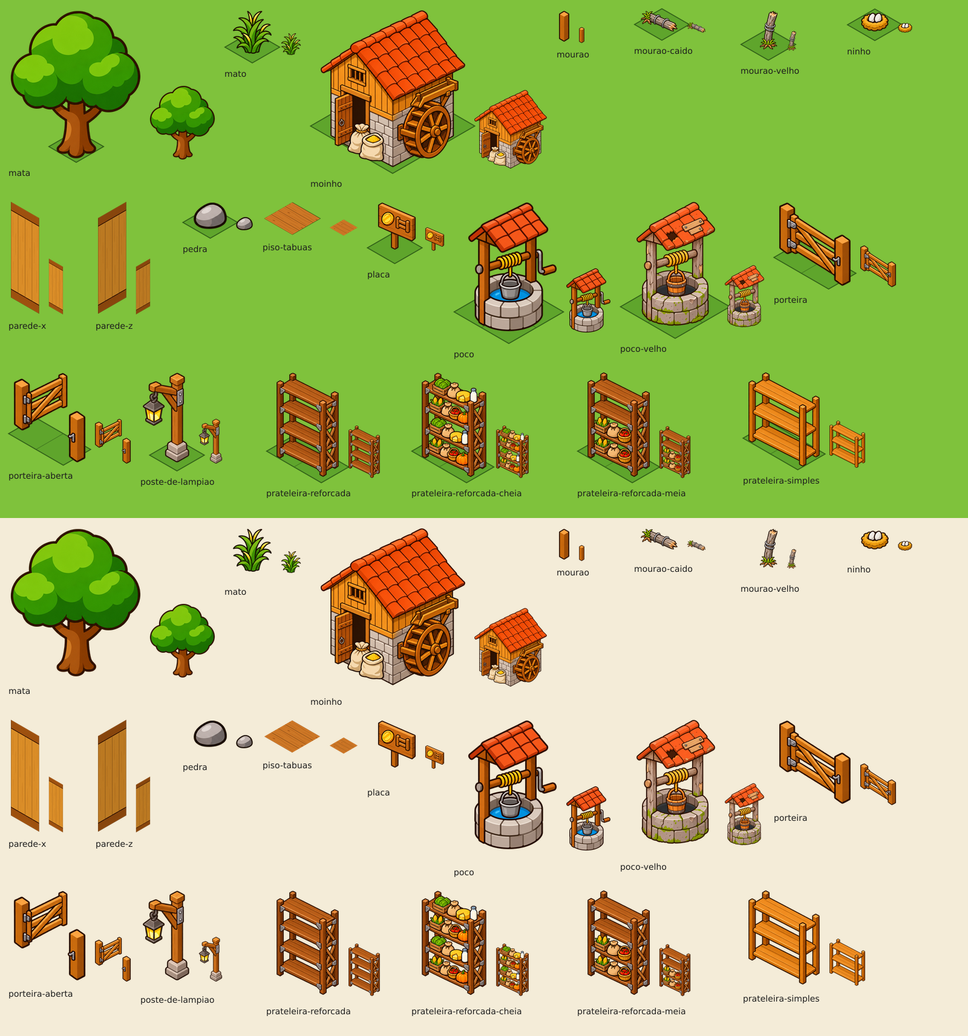
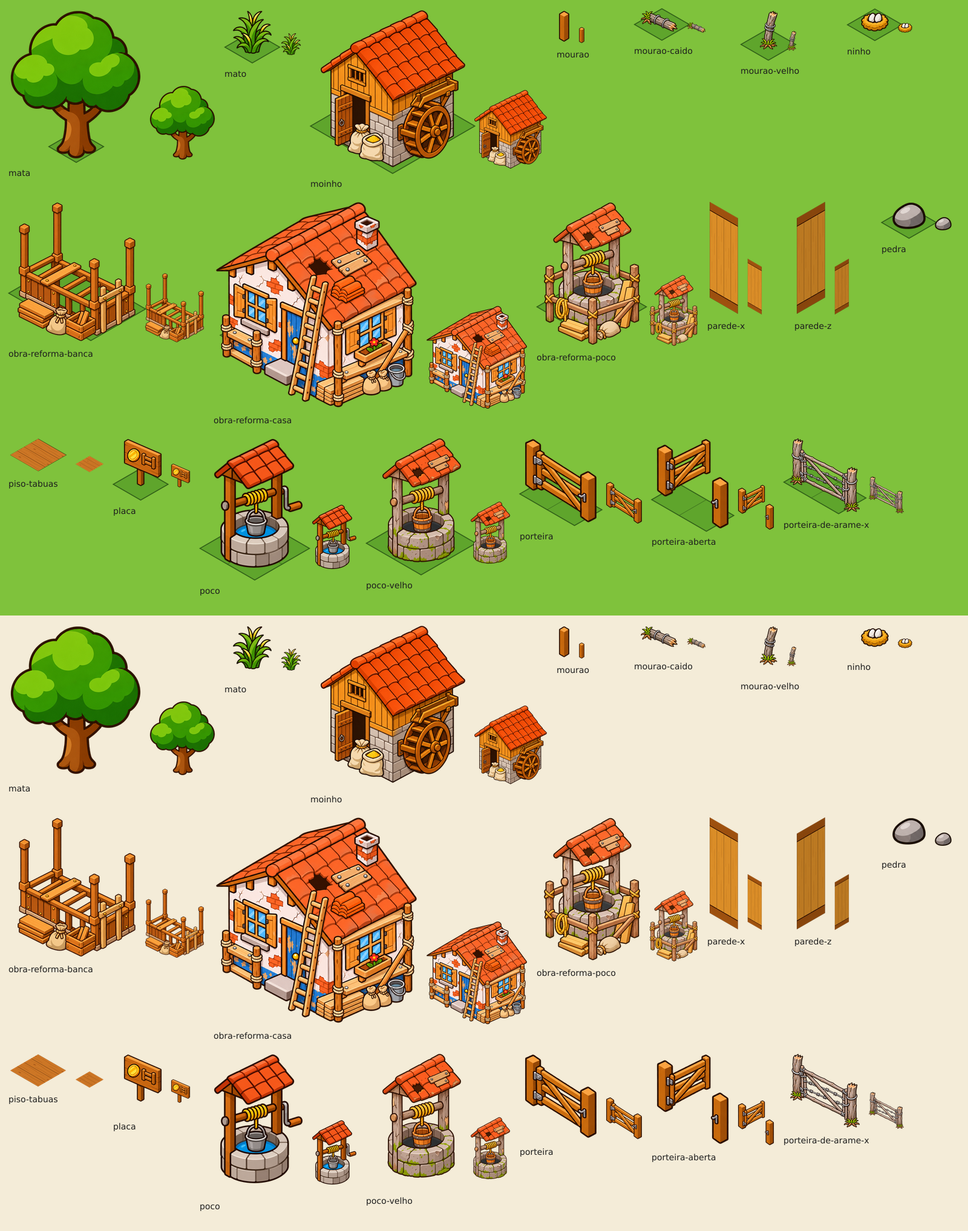
Arte: peças que faltavam (trouxa no chão, porteiras de arame, obras de reforma, ícones das reformas e da roda de ações)
Claude-Session: https://claude.ai/code/session_014ZMdFxkTu5bY13h76nzJkg

diff --git a/arte/jogo/ficha-pecas.md b/arte/jogo/ficha-pecas.md
@@ -21,20 +21,21 @@ Construções, objetos, plantas, ícones e retratos do jogo, pedidos ao Codex de
 - Curral (6 x 5): montado por código com as cercas, a porteira, a sombra, o cocho e o bebedouro do catálogo (`peca.mjs cercado`). `objeto/curral` é o conjunto; `objeto/curral-fundo` e `objeto/curral-frente` têm o mesmo quadro e o mesmo apoio, para desenhar fundo, bichos, frente. O mesmo comando faz outros cercados.
 - Celeiro por dentro: `objeto/piso-tabuas` (1 casa, apoio no centro, encosta no vizinho sem vão), `objeto/parede-x` e `objeto/parede-z` (1 unidade de parede, 3 de altura, apoio no meio do pé; a parede do fundo fica em z = 0 e x = 0). Os móveis (suporte, prateleiras, baú, caixote, saco de sementes, fardo de feno) têm o apoio no centro da casa. Montagem de teste com o piso de 8 x 5 dos dados: `arte/jogo/folhas/cena-celeiro-por-dentro.png`.
 - Começo da fazenda (pedidos 59 a 63): `objeto/casa-velha` tem o mesmo quadro (681 x 642) e o mesmo apoio (340, 470) de `objeto/casa`, para trocar uma pela outra quando a casa é reformada; `objeto/poco-velho` tem o apoio no mesmo ponto do chão de `objeto/poco` e a mureta do mesmo tamanho, mas o quadro é outro (sem a manivela); `objeto/caixote-de-venda` e `-cheio` têm o mesmo quadro e apoio (1 casa). Arame farpado na regra da cerca: `objeto/arame-x` e `objeto/arame-z` (e os caídos `arame-caido-x` e `-z`) têm 1 unidade de mourão a mourão e o apoio no meio do trecho, no chão; trechos vizinhos sobrepõem o mourão. `objeto/mourao-velho` é o mourão sozinho (apoio no pé); `objeto/mourao-caido` está deitado na direção X (desce para a direita); para a direção Z, espelhe. `objeto/regador-no-chao` tem o apoio no centro da casa; `objeto/enxada-escorada` inclui a estaca, com o apoio no pé da estaca. Montagem de teste: `arte/jogo/folhas/cena-comeco-fazenda.png`.
+- Peças que faltavam do começo (pedidos 65 a 71; folha: `arte/jogo/folhas/pecas-que-faltavam.png`): `objeto/trouxa-no-chao` é a trouxa de `personagem/andar-trouxa-*` largada no chão, sem o pau (cerca de 0,5 de largura), apoio no centro da casa. `objeto/porteira-de-arame-x` e `-z` são a porteira velha de paus roliços e arame entre dois mourões velhos, na regra da `objeto/porteira`: 2 unidades de mourão a mourão, apoio no meio do trecho, no chão; a `-x` corre em X (desce para a direita, casas 2 x 1) e a `-z` corre em Z (desce para a esquerda, casas 1 x 2 no chão, a mesma porteira com giro); as duas têm as dobradiças no mourão da esquerda. Os mourões delas são de porteira: da altura do `objeto/mourao-velho` (mais altos e grossos que os dos trechos de arame). As obras de reforma `objeto/obra-reforma-poco` (2 x 2), `-banca` (3 x 2) e `-casa` (4 x 3) têm o apoio no mesmo ponto do chão da peça nova (`objeto/poco`, `objeto/banca`, `objeto/casa`) e da velha, como a obra comum (`render/construcao.js` desenha a obra com o apoio da própria peça); o quadro é outro (o andaime passa da peça). O poço e a casa velhos dentro da obra batem com `objeto/poco-velho` e `objeto/casa-velha` (encaixe por código a menos de 1 px); a obra da banca é a banca pela metade, com os postes e o rodapé nos pontos da banca pronta.
 - Chão: `objeto/caminho-de-pedra` é chato, ocupa a casa inteira e encosta no vizinho (`peca.mjs chao`).
 - Culturas: `cultura/<id>-<estágio>` (1 a 4; alface 1 a 3), um punhado de plantas que cabe numa casa, sem a terra; apoio no centro da casa.
 - Árvores: `arvore/<id>-muda`, `-jovem`, `-adulta`, `-fruta` (adulta carregada), com os apelidos `-1` a `-4`; apoio no pé do tronco, o mesmo em `adulta` e `fruta`.
-- Ícones: `icone/<id do item>` para todos os itens de `jogo/dados/itens.json`, 128 x 128, apoio no centro. Fora dos itens: `icone/ouro`, `cash`, `xp`, `folego`, `gota`, `convite`, `martelo`; `icone/enxada`, `icone/regador` e `icone/cesto` são apelidos dos do começo do jogo.
-- Interface (`ui/...`, 128 x 128): `mao`, `enxada`, `semear`, `regar`, `loja`, `mochila`, `missoes`, `pedidos`, `config`, `fechar`, `seta`, `cadeado`, `som`, `tela-cheia`, `relogio`, `trofeu`, `presente`, `concluir` (terminar na hora), `vaga` (vaga de fila), `compartilhar`, `lote` (comprar terra), `mover` (mudar construção de lugar). `ui/subida-de-nivel` é a faixa da tela de nível (528 x 278, sem texto: o número vai por cima); `ui/bau-fechado` e `ui/bau-aberto` são o baú de recompensa, com o apoio no pé.
+- Ícones: `icone/<id do item>` para todos os itens de `jogo/dados/itens.json`, 128 x 128, apoio no centro. Fora dos itens: `icone/ouro`, `cash`, `xp`, `folego`, `gota`, `convite`, `martelo`; `icone/enxada`, `icone/regador` e `icone/cesto` são apelidos dos do começo do jogo. Reformas (pedido 70): `icone/reforma-poco`, `-banca`, `-casa` e `-cerca`, a peça nova com um martelinho no canto de baixo à direita.
+- Interface (`ui/...`, 128 x 128): `mao`, `enxada`, `semear`, `regar`, `loja`, `mochila`, `missoes`, `pedidos`, `config`, `fechar`, `seta`, `cadeado`, `som`, `tela-cheia`, `relogio`, `trofeu`, `presente`, `concluir` (terminar na hora), `vaga` (vaga de fila), `compartilhar`, `lote` (comprar terra), `mover` (mudar construção de lugar). Roda de ações (pedido 71): `afagar` (luva com coração), `colher` (cesto de laranjas), `podar` (tesoura de poda), `comprar-sementes` (saquinho com "+" verde); `limpar` (foice no mato) já existia (ui-modos-e-progresso.md). Ordenhar e dar ração não ganharam peça nova porque já existe o desenho igual: usar `icone/leite` (balde de leite, o mesmo do mockup da roda) e `icone/racao` (saco de ração com concha). `ui/subida-de-nivel` é a faixa da tela de nível (528 x 278, sem texto: o número vai por cima); `ui/bau-fechado` e `ui/bau-aberto` são o baú de recompensa, com o apoio no pé.
 - Retratos (256 x 256): `retrato/seu-tonho` (neutro; apelido `-neutro`), `-alegre`, `-explicando`. Folha de modelo: `arte/jogo/modelos/seu-tonho.png`. A personagem principal, no mesmo formato (busto do alto do coque ao meio do peito, encostado a 8 px do pé, apoio 128, 248): `retrato/personagem` (neutra) e `retrato/personagem-alegre`, pedido 64 (a rodada 1 saiu com as cores escuras e o rosto pequeno; valeu a `-r2`). Folha de modelo: `arte/jogo/modelos/personagem.png`; comparação com o Seu Tonho e no círculo do balão: `arte/jogo/folhas/retratos-personagem.png`. O círculo e o fundo azul do balão vêm do CSS, não do PNG.
 
 ## Peças
 
 <!-- tabela:inicio -->
 
-No catálogo: 299 chaves (299 prontas, 0 pendentes).
+No catálogo: 313 chaves (313 prontas, 0 pendentes).
 
-### objetos (86)
+### objetos (92)
 
 | Chave | Arquivo | Quadro (px) | Apoio | Casas | Tamanho pedido | Pedido | Situação |
 |---|---|---|---|---|---|---|---|
@@ -99,6 +100,9 @@ No catálogo: 299 chaves (299 prontas, 0 pendentes).
 | `objeto/mourao-caido` | objetos/mourao-caido.png | 136 x 83 | 76, 53 | 1 x 1 | fator 0.3587 | 61-arame-farpado-r2.md | pronto: mourão caído no chão com arame enrolado, raiz à esquerda e ponta quebrada à direita (desce para a direita, como o lado X); para a outra direção, espelhe; apoio no meio dele, no chão |
 | `objeto/mourao-velho` | objetos/mourao-velho.png | 74 x 143 | 36, 119 | 1 x 1 | fator 0.3587 | 61-arame-farpado-r2.md | pronto: mourão velho sozinho, um pouco torto, com raiz e duas voltas de arame; mesma escala dos mourões do arame; apoio no pé do mourão |
 | `objeto/ninho` | objetos/ninho.png | 108 x 78 | 54, 48 | 1 x 1 | largura 0.72 | 28-pecas-de-trato.md | pronto |
+| `objeto/obra-reforma-banca` | objetos/obra-reforma-banca.png | 405 x 473 | 205, 334 | 3 x 2 | fator 0.47427 | 68-obra-reforma-banca.md | pronto: obra da banca: a banca pela metade (postes, armação do balcão, algumas tábuas), um andaimezinho, pilha de tábuas, saco e o velho caixote de venda; postes e rodapé nos mesmos pontos de objeto/banca (encaixe por código, folga de 2 a 4 px) e o apoio é o mesmo ponto do chão de objeto/banca (centro das 3x2 casas) |
+| `objeto/obra-reforma-casa` | objetos/obra-reforma-casa.png | 679 x 694 | 339, 473 | 4 x 3 | fator 0.68836 | 69-obra-reforma-casa.md | pronto: obra da reforma da casa: a casa velha com andaime de varas nas duas paredes, escada no beiral, telhas novas no telhado, tábuas, sacos e balde; a casa bate com objeto/casa-velha (encaixe por código: escala 1,0015) e o apoio é o mesmo ponto do chão de objeto/casa e objeto/casa-velha (centro das 4x3 casas); o quadro é outro (o andaime passa um pouco da casa) |
+| `objeto/obra-reforma-poco` | objetos/obra-reforma-poco.png | 333 x 485 | 166, 353 | 2 x 2 | fator 0.46670 | 67-obra-reforma-poco.md | pronto: obra da reforma do poço: o poço velho com andaime de varas, corda nova, tábuas e saco de cal; o poço velho bate com objeto/poco-velho (encaixe por código) e o apoio é o mesmo ponto do chão de objeto/poco e objeto/poco-velho (centro das 2x2 casas) |
 | `objeto/parede-x` | objetos/parede-x.png | 109 x 382 | 54, 348 |  | parede de 1 unidade, altura 3 | 40-texturas-do-celeiro.md | pronto |
 | `objeto/parede-z` | objetos/parede-z.png | 109 x 382 | 54, 348 |  | parede de 1 unidade, altura 3 | 40-texturas-do-celeiro.md | pronto |
 | `objeto/pedra` | objetos/pedra.png | 125 x 103 | 63, 74 | 1 x 1 | largura 0.85 | 06-natureza.md | pronto |
@@ -108,6 +112,8 @@ No catálogo: 299 chaves (299 prontas, 0 pendentes).
 | `objeto/poco-velho` | objetos/poco-velho.png | 275 x 424 | 136, 353 | 2 x 2 | fator 0.3466 | 60-poco-velho.md | pronto: estado velho do poço (começo do jogo): mureta do mesmo tamanho e apoio no mesmo ponto do chão que objeto/poco; sem manivela |
 | `objeto/porteira` | objetos/porteira.png | 252 x 292 | 126, 216 | 2 x 1 | fator 0.7016 | 05-cercas.md | pronto |
 | `objeto/porteira-aberta` | objetos/porteira-aberta.png | 252 x 311 | 126, 235 | 2 x 1 | fator 0.7016 | 05-cercas.md | pronto |
+| `objeto/porteira-de-arame-x` | objetos/porteira-de-arame-x.png | 245 x 258 | 123, 177 | 2 x 1 | fator 0.37037 | 66-porteira-de-arame-r2.md | pronto: porteira velha de paus roliços e arame farpado entre dois mourões velhos, correndo em X (desce para a direita); mesma regra da objeto/porteira: 2 unidades de mourão a mourão, apoio no meio do trecho, no chão; desenhada em cima de uma guia na câmera do jogo (2ª rodada: a 1ª saiu curta e deitada) |
+| `objeto/porteira-de-arame-z` | objetos/porteira-de-arame-z.png | 247 x 259 | 123, 178 | 1 x 2 | fator 0.37037 | 66-porteira-de-arame-r2.md | pronto: a mesma porteira correndo em Z (desce para a esquerda); 2 unidades de mourão a mourão, apoio no meio do trecho, no chão; dobradiças no mourão da esquerda |
 | `objeto/poste-de-lampiao` | objetos/poste-de-lampiao.png | 169 x 311 | 121, 280 | 1 x 1 | altura 2.6 | 41-decoracao-1.md | pronto |
 | `objeto/prateleira-reforcada` | objetos/prateleira-reforcada.png | 222 x 360 | 111, 293 | 2 x 1 | fator 0.53 | 51-prateleira-reforcada.md | pronto |
 | `objeto/prateleira-reforcada-cheia` | objetos/prateleira-reforcada-cheia.png | 230 x 360 | 111, 293 | 2 x 1 | fator 0.53 | 51-prateleira-reforcada.md | pronto |
@@ -123,6 +129,7 @@ No catálogo: 299 chaves (299 prontas, 0 pendentes).
 | `objeto/suporte-de-ferramentas` | objetos/suporte-de-ferramentas.png | 223 x 286 | 112, 219 | 2 x 1 | fator 0.35 | 08-suporte-ferramentas.md | pronto |
 | `objeto/suporte-de-ferramentas-vazio` | objetos/suporte-de-ferramentas-vazio.png | 223 x 286 | 112, 219 | 2 x 1 | fator 0.35 | 08-suporte-ferramentas.md | pronto |
 | `objeto/toco` | objetos/toco.png | 144 x 126 | 72, 85 | 1 x 1 | largura 1.0 | 06-natureza.md | pronto |
+| `objeto/trouxa-no-chao` | objetos/trouxa-no-chao.png | 80 x 71 | 40, 49 | 1 x 1 | largura 0.5 | 65-trouxa-no-chao.md | pronto: a trouxa da personagem (o mesmo pano azul de florzinhas) largada no chão, sem o pau; cerca de 0,5 x 0,35 x 0,35; apoio no centro da casa, no chão (o centro do fundo da trouxa) |
 | `objeto/vaso` | objetos/vaso.png | 112 x 133 | 56, 108 | 1 x 1 | largura 0.75 | 41-decoracao-1.md | pronto |
 
 ### culturas (31)
@@ -190,7 +197,7 @@ No catálogo: 299 chaves (299 prontas, 0 pendentes).
 | `arvore/laranjeira-jovem` | arvores/laranjeira-jovem.png | 185 x 235 | 95, 213 |  | altura 3.3 | 35-arvore-laranjeira.md | pronto |
 | `arvore/laranjeira-muda` | arvores/laranjeira-muda.png | 88 x 127 | 43, 113 |  | altura 3.3 | 35-arvore-laranjeira.md | pronto |
 
-### icones (114)
+### icones (118)
 
 | Chave | Arquivo | Quadro (px) | Apoio | Casas | Tamanho pedido | Pedido | Situação |
 |---|---|---|---|---|---|---|---|
@@ -281,6 +288,10 @@ No catálogo: 299 chaves (299 prontas, 0 pendentes).
 | `icone/prego` | icones/prego.png | 128 x 128 | 64, 64 |  | caixa 128 | 19-icones-produtos.md | pronto |
 | `icone/queijo-minas` | icones/queijo-minas.png | 128 x 128 | 64, 64 |  | caixa 128 | 19-icones-produtos.md | pronto |
 | `icone/racao` | icones/racao.png | 128 x 128 | 64, 64 |  | caixa 128 | 19-icones-produtos.md | pronto |
+| `icone/reforma-banca` | icones/reforma-banca.png | 128 x 128 | 64, 64 |  | caixa 128 | 70-icones-reforma.md | pronto |
+| `icone/reforma-casa` | icones/reforma-casa.png | 128 x 128 | 64, 64 |  | caixa 128 | 70-icones-reforma.md | pronto |
+| `icone/reforma-cerca` | icones/reforma-cerca.png | 128 x 128 | 64, 64 |  | caixa 128 | 70-icones-reforma.md | pronto |
+| `icone/reforma-poco` | icones/reforma-poco.png | 128 x 128 | 64, 64 |  | caixa 128 | 70-icones-reforma.md | pronto |
 | `icone/regador` | icones/regador-velho.png (apelido) | 128 x 128 | 64, 64 |  | caixa 128 | 18-icones-ferramentas.md | pronto |
 | `icone/regador-de-cobre` | icones/regador-de-cobre.png | 128 x 128 | 64, 64 |  | caixa 128 | 47-icones-ferramentas-2.md | pronto |
 | `icone/regador-de-crivo` | icones/regador-de-crivo.png | 128 x 128 | 64, 64 |  | caixa 128 | 54-icones-rega.md | pronto |
@@ -320,17 +331,20 @@ No catálogo: 299 chaves (299 prontas, 0 pendentes).
 | `retrato/seu-tonho-explicando` | retratos/seu-tonho-explicando.png | 256 x 256 | 128, 248 |  | caixa 256 | 21-retratos-seu-tonho.md | pronto |
 | `retrato/seu-tonho-neutro` | retratos/seu-tonho.png (apelido) | 256 x 256 | 128, 248 |  | caixa 256 | 21-retratos-seu-tonho.md | pronto |
 
-### interface (38)
+### interface (42)
 
 | Chave | Arquivo | Quadro (px) | Apoio | Casas | Tamanho pedido | Pedido | Situação |
 |---|---|---|---|---|---|---|---|
+| `ui/afagar` | interface/afagar.png | 128 x 128 | 64, 64 |  | caixa 128 | 71-icones-acoes.md | pronto |
 | `ui/amigos` | interface/amigos.png | 128 x 128 | 64, 64 |  | caixa 128 | ui-modos-e-progresso.md | pronto |
 | `ui/bau-aberto` | interface/bau-aberto.png | 268 x 280 | 134, 272 |  | fator 0.5 | 22-nivel-e-bau.md | pronto |
 | `ui/bau-fechado` | interface/bau-fechado.png | 252 x 226 | 126, 218 |  | fator 0.5 | 22-nivel-e-bau.md | pronto |
 | `ui/cadeado` | interface/cadeado.png | 128 x 128 | 64, 64 |  | caixa 128 | 26-icones-interface.md | pronto |
 | `ui/caderno` | interface/caderno.png | 128 x 128 | 64, 64 |  | caixa 128 | ui-modos-e-progresso.md | pronto |
 | `ui/certo` | interface/certo.png | 128 x 128 | 64, 64 |  | caixa 128 | ui-interface-aprovada.md | pronto |
+| `ui/colher` | interface/colher.png | 128 x 128 | 64, 64 |  | caixa 128 | 71-icones-acoes.md | pronto |
 | `ui/compartilhar` | interface/compartilhar.png | 128 x 128 | 64, 64 |  | caixa 128 | 48-icones-cosmeticos.md | pronto |
+| `ui/comprar-sementes` | interface/comprar-sementes.png | 128 x 128 | 64, 64 |  | caixa 128 | 71-icones-acoes.md | pronto |
 | `ui/concluir` | interface/concluir.png | 128 x 128 | 64, 64 |  | caixa 128 | 48-icones-cosmeticos.md | pronto |
 | `ui/config` | interface/config.png | 128 x 128 | 64, 64 |  | caixa 128 | 26-icones-interface.md | pronto |
 | `ui/correio` | interface/correio.png | 128 x 128 | 64, 64 |  | caixa 128 | ui-modos-e-progresso.md | pronto |
@@ -351,6 +365,7 @@ No catálogo: 299 chaves (299 prontas, 0 pendentes).
 | `ui/mochila` | interface/mochila.png | 128 x 128 | 64, 64 |  | caixa 128 | 26-icones-interface.md | pronto |
 | `ui/mover` | interface/mover.png | 128 x 128 | 64, 64 |  | caixa 128 | 54-icones-rega.md | pronto |
 | `ui/pedidos` | interface/pedidos.png | 128 x 128 | 64, 64 |  | caixa 128 | 26-icones-interface.md | pronto |
+| `ui/podar` | interface/podar.png | 128 x 128 | 64, 64 |  | caixa 128 | 71-icones-acoes.md | pronto |
 | `ui/presente` | interface/presente.png | 128 x 128 | 64, 64 |  | caixa 128 | 26-icones-interface.md | pronto |
 | `ui/regar` | interface/regar.png | 128 x 128 | 64, 64 |  | caixa 128 | 26-icones-interface.md | pronto |
 | `ui/relogio` | interface/relogio.png | 128 x 128 | 64, 64 |  | caixa 128 | 26-icones-interface.md | pronto |
@@ -382,4 +397,5 @@ Nenhuma peça ficou marcada como pendente. O que vale saber:
 - **Peso**: o grupo `objetos` soma cerca de 17 milhões de pixels (mais de 4 páginas de atlas de 2048); mais da metade são os 10 celeiros e as 3 camadas do curral. Se pesar no celular, carregar só o celeiro do nível atual ou reduzir essas peças no atlas.
 - **Não feito**: a personagem e os animais são de outra frente. Só os itens têm `icone/<id>`: não há ícone de construção nem de animal. A tela de subida de nível pede `icone/<id>` do que foi liberado e cai na figura de reserva quando o liberado não é item; se a interface precisar, pedir uma grade nova no modelo dos pedidos 45 a 48.
 - **Começo da fazenda (pedidos 59 a 63)**: `casa-velha` saiu na 2ª rodada (59-casa-velha-r2.md): a 1ª veio 5% maior e com a parede da esquerda mais deitada; a 2ª envelheceu a própria casa nova sem mexer na forma, e bate com ela a 1 ou 2 px. O arame também foi para a 2ª rodada (61-arame-farpado-r2.md): na 1ª os mourões vinham baixos (na canela da personagem); agora têm a altura da cerca de madeira. Os trechos de arame vieram com a diagonal mais deitada (0,38 a 0,44) e foram acertados com `--inclinar`. Os trechos X e Z vêm de fatores um pouco diferentes (0,37 e 0,35) para o vão de 1 unidade ficar exato; no canto onde X encontra Z o mourão de um é uns 6% maior que o do outro. O regador no chão tem a largura do regador que a personagem segura na animação de regar.
+- **Peças que faltavam (pedidos 65 a 71)**: 8 imagens geradas, 1 descartada (a 1ª porteira de arame, `66-porteira-de-arame.md`: o desenho saiu bom, mas curta, com o vão de 1,3 vez a altura do mourão, e a linha do chão deitada, 0,25 em vez de 0,58). A 2ª rodada foi desenhada em cima de uma guia feita por código na câmera do jogo (dois mourões cinza a 2 unidades e o plano da folha; `/root/arte-codex/jogo-65-71-refs/guia-porteira-de-arame.png`) e saiu no lugar: fator 1/2,7 e apoio tirados da própria guia. O mourão de trás das duas porteiras pisa uns 15 a 20 px abaixo da linha do chão (o Codex o desenhou comprido embaixo); na cena parece só um mourão torto. As obras foram pedidas sobre a peça velha num quadro com folga e o losango tracejado da área; o Codex mexeu pouco no que já existia (o poço subiu 31 px; a casa ficou no lugar), e o fator e o apoio saíram do encaixe da peça velha na obra (script de correlação do traço; conferido de novo no tamanho do jogo). A obra da banca não tem peça velha dentro para encaixar: o apoio veio dos postes e do rodapé (dá 205 pela crua e pelo centro do V do rodapé; pedaços isolados dão de 196 a 211, a banca da obra não é idêntica à pronta). O que está no chão passa um pouco da beira da área: na obra do poço, a pilha de tábuas (até 0,4 de casa, na frente à esquerda); na da banca, a pilha de tábuas (até 0,55 de casa, à esquerda); na da casa, os sacos, o balde e a pilha de tábuas na frente da parede da direita (+X), até 0,9 de casa: no começo humilde isso cai atrás do baú da casa (29, 47), que tapa quase tudo (montagem conferida). A trouxa no chão ficou com 0,5 de largura (64 px de desenho); a pendurada no pau tem uns 37 px: no chão ela parece cheia e achatada, uma vez e meia a do pau.
 - **Codex**: nenhuma recusa, nenhum aviso de limite de uso nem de login em todos os pedidos (54 a 112 s cada). As imagens saem com alfa de verdade; o "halo" que aparece em alguns visualizadores é cor em pixels totalmente transparentes.

diff --git a/arte/jogo/pedidos/66-porteira-de-arame.md b/arte/jogo/pedidos/66-porteira-de-arame.md
@@ -1,0 +1,32 @@
+Use a sua ferramenta própria de geração de imagens. Não escreva código para desenhar.
+
+A imagem anexa (`referencias/var-2-contorno.png`) é a cena de um jogo de fazenda original, em desenho com contorno escuro e cores chapadas. Ela dá o ESTILO e a CÂMERA. Preciso de peças desse jogo desenhadas de novo, SOZINHAS, para entrar no jogo como figuras 2D. Cada peça tem de parecer recortada dessa cena.
+
+As outras imagens anexas:
+- `referencias/arame-farpado.png`: a folha da CERCA VELHA DE ARAME FARPADO que já está no jogo (mourões velhos de madeira cinza, tortos, com raiz e tufinho de capim no pé, e fios de arame farpado). Ela dá o DESENHO dos mourões e do arame e a ESCALA: os mourões da porteira são IGUAIS a esses, do mesmo tamanho.
+- `referencias/cercas.png`: a folha das cercas de MADEIRA NOVA do jogo. A peça da esquerda da linha de baixo é a PORTEIRA nova: ela dá a ARRUMAÇÃO da porteira (dois mourões nas pontas e a folha da porteira entre eles) e a proporção: de um mourão ao outro, DUAS vezes o comprimento de um trecho de cerca.
+- `referencias/comeco-fazenda.png`: a imagem já aprovada do começo do jogo, com a cerca velha de arame em volta do sítio.
+
+Quero a PORTEIRA VELHA DE PAU E ARAME, a porteira da roça que combina com a cerca de arame farpado:
+- nas duas pontas, DOIS MOURÕES VELHOS iguais aos de `arame-farpado.png` (madeira acinzentada e rachada, ponta de cima lascada, raízes finas e um tufinho de capim no pé, uma volta de arame em cada um), em pé;
+- entre eles, a FOLHA DA PORTEIRA feita de PAUS ROLIÇOS finos, tortos e acinzentados (galhos descascados, não tábua serrada): um pau em pé junto de cada mourão, um pau atravessado em cima, um embaixo e um na diagonal, amarrados nas juntas com voltas de arame;
+- DOIS FIOS DE ARAME FARPADO esticados no meio da folha, de um pau em pé ao outro;
+- do lado ESQUERDO, a folha presa ao mourão por duas argolas de arame (as dobradiças); do lado DIREITO, fechada com uma argola de arame passada por cima do pau e do mourão;
+- velha e gasta, mas inteira e fechada.
+
+Gere UMA imagem larga (proporção 3 por 2) e salve na pasta atual como `porteira-de-arame.png`, com DUAS peças soltas lado a lado, cada uma no centro da sua metade, com bastante espaço transparente entre elas, as duas NA MESMA ESCALA e na escala de `arame-farpado.png`:
+
+1. Metade da ESQUERDA: a porteira correndo na diagonal que DESCE PARA A DIREITA (o mourão da esquerda fica mais alto na imagem; o da direita, mais baixo), como a porteira de `cercas.png` e o primeiro trecho de `arame-farpado.png`.
+2. Metade da DIREITA: a MESMA porteira correndo na outra diagonal: DESCE PARA A ESQUERDA (o mourão da direita fica mais alto na imagem; o da esquerda, mais baixo), como o segundo trecho de `arame-farpado.png`. As argolas de dobradiça continuam no mourão da esquerda.
+
+Em cada porteira, a distância na horizontal de um mourão ao outro é IGUAL a DUAS VEZES a altura do mourão (do pé até a ponta de cima). Os dois mourões são do mesmo tamanho, e a folha da porteira é mais baixa que os mourões (a ponta deles passa um pouco por cima).
+
+Regras:
+- Mesma câmera da cena: isométrica verdadeira (girada 45°, olhando de cima a cerca de 35°), sem perspectiva: a linha do chão de cada porteira sobe ou desce a 30°, e linhas paralelas continuam paralelas.
+- Exatamente o mesmo estilo da cena e de `arame-farpado.png`: o mesmo traço escuro de espessura parecida, as mesmas cores chapadas com poucos tons, luz vindo de cima e da esquerda.
+- Fundo transparente de verdade (canal alfa). Sem chão, sem grama além dos tufinhos no pé dos mourões, sem terra, sem sombra projetada no chão, sem cenário, sem texto, sem letras, sem números, sem moldura.
+- Tudo inteiro dentro da imagem, sem cortar nada, com folga transparente em toda a volta.
+- Arte original; não imite nenhum jogo existente.
+- Gere a imagem UMA vez só. Cor que sobra em pixels totalmente transparentes (um "halo" que só aparece para quem ignora o canal alfa) não é defeito: não refaça nem retoque por causa disso.
+
+No fim, liste os arquivos que salvou.

diff --git a/arte/jogo/pedidos/66-porteira-de-arame-r2.md b/arte/jogo/pedidos/66-porteira-de-arame-r2.md
@@ -1,0 +1,26 @@
+Use a sua ferramenta própria de geração de imagens. Não escreva código para desenhar.
+
+A imagem anexa (`referencias/var-2-contorno.png`) é a cena de um jogo de fazenda original, em desenho com contorno escuro e cores chapadas. Ela dá o ESTILO e a CÂMERA. Preciso de peças desse jogo desenhadas de novo, SOZINHAS, para entrar no jogo como figuras 2D. Cada peça tem de parecer recortada dessa cena.
+
+As outras imagens anexas:
+- `referencias/porteira-de-arame-r1.png`: uma primeira tentativa destas duas porteiras. O DESENHO está aprovado (os mourões velhos lascados com raiz e capim, a folha de paus roliços cinza amarrados com arame, os dois fios de arame farpado, as argolas de arame), mas ela saiu CURTA DEMAIS e com a linha do chão DEITADA DEMAIS: no jogo não emenda com a cerca.
+- `referencias/guia-porteira-de-arame.png`: a GUIA, feita por computador na câmera exata do jogo, no mesmo tamanho da imagem que eu quero. Ela tem as duas porteiras: os dois cilindros cinza de cada uma são os MOURÕES (posição, altura e grossura exatas) e a faixa cinza-clara entre eles é a FOLHA da porteira (o plano onde ela fica, a altura de baixo e a de cima). A linha tracejada é a linha do chão, de um pé de mourão ao outro.
+- `referencias/arame-farpado.png`: a folha da cerca velha de arame farpado que já está no jogo (o mesmo mourão, o mesmo arame).
+
+Refaça as DUAS porteiras de `porteira-de-arame-r1.png`, com o mesmo desenho, pintando por cima da guia, como quem pinta por cima dela, com o mesmo enquadramento:
+- cada mourão velho fica EXATAMENTE em cima de um cilindro cinza da guia: o pé no pé do cilindro (o tufinho de capim e as raízes em volta do pé), a ponta lascada na altura do topo do cilindro, com a mesma grossura;
+- a folha da porteira (o pau em pé junto de cada mourão, o pau de cima, o de baixo, o da diagonal e os dois fios de arame farpado) preenche a faixa cinza-clara de um mourão ao outro, com o pau de cima na borda de cima da faixa e o de baixo na borda de baixo; os paus de cima e de baixo correm PARALELOS à linha tracejada do chão;
+- na porteira da ESQUERDA da imagem (que desce para a direita), as argolas de dobradiça ficam no mourão da esquerda e a argola de fechar no da direita; na porteira da DIREITA da imagem (que desce para a esquerda), igual: dobradiças no mourão da esquerda, argola de fechar no da direita.
+O cinza da guia, o contorno da guia e o tracejado NÃO aparecem no resultado: sobram só as duas porteiras, com fundo transparente.
+
+Gere UMA imagem do MESMO tamanho da guia (1536 x 1024) e salve na pasta atual como `porteira-de-arame.png`.
+
+Regras:
+- Mesma câmera da guia: isométrica verdadeira, sem perspectiva; os mourões em pé, na vertical; a linha do chão de cada porteira com a inclinação da linha tracejada.
+- Exatamente o mesmo estilo da cena e de `porteira-de-arame-r1.png`: o mesmo traço escuro de espessura parecida, as mesmas cores chapadas com poucos tons, luz vindo de cima e da esquerda.
+- Fundo transparente de verdade (canal alfa). Sem chão, sem grama além dos tufinhos no pé dos mourões, sem terra, sem sombra projetada no chão, sem cenário, sem texto, sem letras, sem números, sem moldura.
+- Tudo inteiro dentro da imagem, sem cortar nada, com folga transparente em toda a volta; as duas porteiras separadas por um vão transparente.
+- Arte original; não imite nenhum jogo existente.
+- Gere a imagem UMA vez só. Cor que sobra em pixels totalmente transparentes (um "halo" que só aparece para quem ignora o canal alfa) não é defeito: não refaça nem retoque por causa disso.
+
+No fim, liste os arquivos que salvou e o tamanho em pixels.

diff --git a/arte/jogo/pedidos/71-icones-acoes.md b/arte/jogo/pedidos/71-icones-acoes.md
@@ -1,0 +1,26 @@
+Use a sua ferramenta própria de geração de imagens. Não escreva código para desenhar.
+
+As imagens anexas são de um jogo de fazenda original, em desenho com contorno escuro e cores chapadas:
+- `referencias/aprovado.png`: o mockup APROVADO da interface do jogo. É a referência de estilo dos botões e ícones (veja a barra de baixo: Mão, Enxada, Semear, Regar).
+- `referencias/acoes-roda-vaca.png` e `referencias/acoes-arvore.png`: a proposta da RODA DE AÇÕES, com os ícones que eu quero agora dentro dos botões redondos (AFAGAR na primeira; PODAR, COLHER e "Comprar sementes" na segunda). Eles dão a IDEIA de cada ícone. Não recorte dessas telas: desenhe de novo, limpo.
+- `referencias/icones-ui-vizinhos.png`: ícones que JÁ existem no jogo, da esquerda para a direita e de cima para baixo: mão (luva amarela), semear, enxada, regar, limpar, mais (botão verde com "+"), cesto de palha, laranja, saquinho de semente de milho, saco de ração. Os novos vão ficar ao lado deles: mesmo traço, mesma grossura de contorno, mesmo tamanho.
+
+Preciso de QUATRO ÍCONES de botões, cada um sozinho. Gere UMA imagem quadrada e salve na pasta atual como `icones-acoes.png`. Nela, os QUATRO ícones numa grade de 2 colunas por 2 linhas:
+
+Linha 1, da esquerda para a direita:
+1. AFAGAR: a MESMA luva de trabalho amarelo-dourada do ícone da mão (aberta, de palma para a frente, dedos separados), um pouco menor, e, encostado nela embaixo à direita, um CORAÇÃOZINHO vermelho gordinho com brilho.
+2. COLHER: um CESTO de palha trançada dourada, com alça em arco, igual ao cesto de palha dos vizinhos, CHEIO DE LARANJAS redondas com folhinhas verdes, as de cima passando da borda.
+
+Linha 2:
+3. PODAR: uma TESOURA DE PODA aberta, de cabos vermelhos curvos e lâminas curtas de metal cinza com brilho, na diagonal, e ao lado um RAMINHO verde cortado com duas ou três folhas.
+4. COMPRAR SEMENTES: um SAQUINHO de semente de pano bege, amarrado em cima com cordão e lacinho (como o saquinho de semente dos vizinhos, mas sem desenho na frente), e, no canto de baixo à direita, por cima dele, um BOTÃOZINHO REDONDO verde-grama com uma cruz "+" branca e grossa (o mesmo verde e o mesmo "+" do ícone "mais").
+
+Regras:
+- Cada ícone é UM desenho só, grande, simples e gordinho, visto de frente e um pouco de cima, que se reconhece mesmo bem pequeno (32 pixels): formas claras, poucas minúcias.
+- Exatamente o traço dos ícones vizinhos: contorno marrom-escuro grosso em volta de tudo, cores chapadas e vivas com poucos tons, um brilho simples, luz de cima e da esquerda.
+- Todos os ícones do mesmo tamanho, cada um centrado na sua parte da grade, alinhados em linhas e colunas retas, com bastante espaço transparente entre um e outro (nenhum encosta no vizinho nem na borda da imagem).
+- Fundo transparente de verdade (canal alfa). Sem quadrado, círculo ou moldura atrás do ícone (o botãozinho do "+" é parte do desenho), sem sombra no chão, sem texto, sem letras, sem números, sem linhas de grade.
+- Arte original; não imite nenhum jogo existente e não use nenhuma marca.
+- Gere a imagem UMA vez só. Cor que sobra em pixels totalmente transparentes não é defeito: não refaça por causa disso.
+
+No fim, liste os arquivos que salvou.

diff --git a/arte/jogo/pedidos/70-icones-reforma.md b/arte/jogo/pedidos/70-icones-reforma.md
@@ -1,0 +1,29 @@
+Use a sua ferramenta própria de geração de imagens. Não escreva código para desenhar.
+
+As imagens anexas são de um jogo de fazenda original, em desenho com contorno escuro e cores chapadas:
+- `referencias/var-2-contorno.png`: a cena do jogo (dá o ESTILO);
+- `referencias/icones-vizinhos.png`: ícones que o jogo JÁ usa (martelo, lote de terra, celeiro, casinha com porteira, carroça, setas com casinha, regador, sacola). Os novos vão ficar ao lado deles: mesmo traço, mesma grossura de contorno, mesmo tamanho, mesmo jeito de mostrar uma construção pequenininha vista de cima e de lado;
+- `referencias/pecas-novas.png`: as quatro construções REFORMADAS do jogo, da esquerda para a direita: o POÇO novo (mureta de pedra, telhadinho de telhas, manivela, balde de lata e água azul), a BANCA de feira (toldo listrado de vermelho e branco, balcão de madeira, caixotes de milho, tomate e alface), a CASA nova (paredes brancas, rodapé azul, telhado de telhas laranja, chaminé, porta azul, janelas com jardineira) e um trecho de CERCA de madeira nova.
+
+Preciso de QUATRO ÍCONES de REFORMA, para o botão de reformar cada coisa. Cada ícone mostra a construção NOVA, pequenininha e inteira, e, no CANTO DE BAIXO À DIREITA, por cima dela, um MARTELO pequeno (o mesmo martelo de `icones-vizinhos.png`: cabeça de ferro cinza, cabo de madeira), inclinado, com uns dois quintos do tamanho do ícone.
+
+Gere UMA imagem quadrada e salve na pasta atual como `icones-reforma.png`. Nela, os QUATRO ícones numa grade de 2 colunas por 2 linhas:
+
+Linha 1, da esquerda para a direita:
+1. REFORMAR O POÇO: o poço novo de `pecas-novas.png`, com o martelo no canto.
+2. REFORMAR A BANCA: a banca de feira de `pecas-novas.png`, com o martelo no canto.
+
+Linha 2:
+3. REFORMAR A CASA: a casa nova de `pecas-novas.png`, com o martelo no canto.
+4. REFORMAR A CERCA: um trecho curto de cerca de madeira nova de `pecas-novas.png` (três mourões e duas travessas), com o martelo no canto.
+
+Regras:
+- Cada ícone é UM desenho só, grande, simples e gordinho, visto de frente e um pouco de cima, que se reconhece mesmo bem pequeno (32 pixels): formas claras, poucas minúcias. O martelo não tapa a construção: fica no canto, por cima da beirada dela.
+- Exatamente o mesmo estilo da cena e dos ícones vizinhos: o mesmo traço escuro grosso em volta de tudo, as mesmas cores chapadas com poucos tons, um brilho simples, luz vindo de cima e da esquerda.
+- Todos os ícones do mesmo tamanho, cada um centrado na sua parte da grade, alinhados em linhas e colunas retas, com bastante espaço transparente entre um e outro (nenhum encosta no vizinho).
+- Fundo transparente de verdade (canal alfa). Sem quadrado, círculo ou moldura atrás do ícone, sem sombra no chão, sem chão de grama, sem texto, sem letras, sem números, sem linhas de grade.
+- Tudo inteiro dentro da imagem, com folga transparente em toda a volta. Imagem quadrada.
+- Arte original; não imite nenhum jogo existente e não use nenhuma marca.
+- Gere a imagem UMA vez só. Cor que sobra em pixels totalmente transparentes (um "halo" que só aparece para quem ignora o canal alfa) não é defeito: não refaça nem retoque por causa disso.
+
+No fim, liste os arquivos que salvou.

diff --git a/arte/jogo/pedidos/69-obra-reforma-casa.md b/arte/jogo/pedidos/69-obra-reforma-casa.md
@@ -1,0 +1,24 @@
+Use a sua ferramenta própria de geração de imagens. Não escreva código para desenhar.
+
+A imagem anexa (`referencias/var-2-contorno.png`) é a cena de um jogo de fazenda original, em desenho com contorno escuro e cores chapadas. Ela dá o ESTILO e a CÂMERA. Preciso de UMA peça desse jogo desenhada de novo, SOZINHA, para entrar no jogo como figura 2D. A peça tem de parecer recortada dessa cena.
+
+A segunda imagem anexa (`referencias/base-casa.png`) é a CASA VELHA que já está no jogo, no enquadramento certo. O losango tracejado (quase todo escondido pela casa) é a área do chão que ela ocupa (4 por 3 casas do terreno). A terceira (`referencias/pecas-novas.png`) mostra as peças REFORMADAS do jogo (a terceira é a casa nova), só para dar o tom da madeira e das telhas novas.
+
+Quero a OBRA DE REFORMA DA CASA: a mesma casa velha, em reforma. Gere uma imagem quadrada, do MESMO tamanho de `base-casa.png`, e salve na pasta atual como `obra-reforma-casa.png`:
+
+Use `base-casa.png` como base e NÃO MUDE A CASA DE LUGAR NEM DE TAMANHO: o contorno de fora, os cantos de baixo das paredes, as arestas do chão (a 30°), a altura das paredes, a cumeeira, os beirais, a chaminé, a porta, o degrau e as janelas ficam EXATAMENTE nos mesmos pontos da imagem, com a mesma pintura velha (cal descascada, telhado com o buraco e o remendo). Na frente das paredes e no telhado, ACRESCENTE a obra:
+- um ANDAIME de madeira encostado na parede da DIREITA (a da janela com a jardineira): varas de pau em pé, coladas na parede, da altura do beiral, com duas tábuas de passarela atravessadas e uma vara na diagonal, amarradas com corda; um andaimezinho igual, mais curto, no canto da parede da ESQUERDA, sem tapar a porta;
+- uma ESCADA de mão de madeira encostada no beiral do telhado, subindo até perto do buraco;
+- no telhado, perto do buraco, uma pilhinha de TELHAS NOVAS laranja vivo;
+- no chão, encostados na frente das paredes, dentro da área da casa: uma PILHA DE TÁBUAS novas de madeira clara, DOIS SACOS de pano bege amarrados (de cal e de cimento) e um BALDE de lata.
+O andaime e o que está no chão ficam bem junto da casa, quase dentro do contorno dela; nada se espalha para longe.
+
+Regras:
+- Mesma câmera e mesmo enquadramento de `base-casa.png` (isométrica verdadeira, sem perspectiva; as arestas do chão sobem a 30° para a esquerda e para a direita; as varas do andaime em pé, na vertical).
+- Exatamente o mesmo estilo da cena: o mesmo traço escuro de espessura parecida, as mesmas cores chapadas com poucos tons, luz vindo de cima e da esquerda.
+- Fundo transparente de verdade (canal alfa). O tracejado NÃO aparece no resultado. Sem chão de terra, sem grama, sem sombra projetada no chão, sem cenário, sem personagem, sem texto, sem letras, sem números, sem placa, sem moldura.
+- Tudo inteiro dentro da imagem, sem cortar nada, com folga transparente em toda a volta.
+- Arte original; não imite nenhum jogo existente.
+- Gere a imagem UMA vez só. Cor que sobra em pixels totalmente transparentes (um "halo" que só aparece para quem ignora o canal alfa) não é defeito: não refaça nem retoque por causa disso.
+
+No fim, liste os arquivos que salvou e o tamanho em pixels.

diff --git a/arte/jogo/pedidos/68-obra-reforma-banca.md b/arte/jogo/pedidos/68-obra-reforma-banca.md
@@ -1,0 +1,25 @@
+Use a sua ferramenta própria de geração de imagens. Não escreva código para desenhar.
+
+A imagem anexa (`referencias/var-2-contorno.png`) é a cena de um jogo de fazenda original, em desenho com contorno escuro e cores chapadas. Ela dá o ESTILO e a CÂMERA. Preciso de UMA peça desse jogo desenhada de novo, SOZINHA, para entrar no jogo como figura 2D. A peça tem de parecer recortada dessa cena.
+
+A segunda imagem anexa (`referencias/base-banca.png`) é a BANCA de feira que já está no jogo, PRONTA, no enquadramento certo. O losango tracejado em volta dela é a área do chão que ela ocupa (3 por 2 casas do terreno). A terceira (`referencias/comeco-fazenda.png`) é a imagem já aprovada do começo do jogo: no lugar da banca, no começo, só existe o velho CAIXOTE DE VENDA de madeira, vazio, perto da estrada.
+
+Quero a OBRA DA BANCA: a mesma banca de `base-banca.png` PELA METADE, sendo montada. Gere uma imagem quadrada, do MESMO tamanho de `base-banca.png`, e salve na pasta atual como `obra-reforma-banca.png`:
+
+Use `base-banca.png` como base e NÃO MUDE A BANCA DE LUGAR NEM DE TAMANHO: os quatro postes de canto e a base do balcão (o rodapé de baixo e as quinas) ficam EXATAMENTE nos mesmos pontos da imagem, do mesmo tamanho e da mesma madeira. Mude só o que falta fazer:
+- SEM o toldo listrado (os quatro postes ficam em pé, nus, com a ponta de cima sem o toldo);
+- SEM os caixotes de milho, tomate e alface e SEM a balança;
+- o BALCÃO pela metade: a armação de caibros no lugar, só algumas tábuas da frente pregadas (as de baixo), e em cima uma tábua só, atravessada;
+- DUAS ESTACAS de pau com uma travessa, escorando um dos postes, como um andaimezinho;
+- no chão, dentro do losango, na frente da banca: uma PILHA DE TÁBUAS novas, UM SACO de pano bege amarrado e o velho CAIXOTE DE VENDA vazio (o de `comeco-fazenda.png`), encostado num canto, com algumas ripas dentro.
+Tudo fica DENTRO do losango tracejado.
+
+Regras:
+- Mesma câmera e mesmo enquadramento de `base-banca.png` (isométrica verdadeira, sem perspectiva; as arestas do chão sobem a 30° para a esquerda e para a direita; postes e estacas em pé, na vertical).
+- Exatamente o mesmo estilo da cena: o mesmo traço escuro de espessura parecida, as mesmas cores chapadas com poucos tons, luz vindo de cima e da esquerda.
+- Fundo transparente de verdade (canal alfa). O tracejado NÃO aparece no resultado. Sem chão de terra, sem grama, sem sombra projetada no chão, sem cenário, sem personagem, sem ferramentas soltas, sem texto, sem letras, sem números, sem placa, sem moldura.
+- Tudo inteiro dentro da imagem, sem cortar nada, com folga transparente em toda a volta.
+- Arte original; não imite nenhum jogo existente.
+- Gere a imagem UMA vez só. Cor que sobra em pixels totalmente transparentes (um "halo" que só aparece para quem ignora o canal alfa) não é defeito: não refaça nem retoque por causa disso.
+
+No fim, liste os arquivos que salvou e o tamanho em pixels.

diff --git a/arte/jogo/pedidos/67-obra-reforma-poco.md b/arte/jogo/pedidos/67-obra-reforma-poco.md
@@ -1,0 +1,24 @@
+Use a sua ferramenta própria de geração de imagens. Não escreva código para desenhar.
+
+A imagem anexa (`referencias/var-2-contorno.png`) é a cena de um jogo de fazenda original, em desenho com contorno escuro e cores chapadas. Ela dá o ESTILO e a CÂMERA. Preciso de UMA peça desse jogo desenhada de novo, SOZINHA, para entrar no jogo como figura 2D. A peça tem de parecer recortada dessa cena.
+
+A segunda imagem anexa (`referencias/base-poco.png`) é o POÇO VELHO que já está no jogo, no enquadramento certo. O losango tracejado em volta dele é a área do chão que a obra ocupa (2 por 2 casas do terreno). A terceira (`referencias/pecas-novas.png`) mostra as peças REFORMADAS do jogo (a primeira é o poço novo), só para dar o tom da madeira nova.
+
+Quero a OBRA DE REFORMA DO POÇO: o mesmo poço velho, em conserto. Gere uma imagem quadrada, do MESMO tamanho de `base-poco.png`, e salve na pasta atual como `obra-reforma-poco.png`:
+
+Use `base-poco.png` como base e NÃO MUDE O POÇO DE LUGAR NEM DE TAMANHO: a mureta de pedra, os dois postes, o telhadinho, o eixo com a corda e o balde de madeira ficam EXATAMENTE nos mesmos pontos da imagem, com a mesma pintura velha. Em volta e na frente dele, ACRESCENTE a obra:
+- um ANDAIME simples de madeira em volta do poço: quatro varas de pau em pé, uma em cada canto, mais altas que a mureta e mais baixas que o telhadinho, ligadas por duas travessas de tábua e uma vara na diagonal, amarradas com corda;
+- encostadas no andaime, duas ou três TÁBUAS NOVAS de madeira clara (cor da madeira do poço novo);
+- no chão, dentro do losango, na frente do poço: uma pilhinha de tábuas novas e UM SACO de pano bege amarrado (de cal), deitado;
+- um rolo de corda nova pendurado na travessa.
+Tudo da obra fica DENTRO do losango tracejado; nada passa muito para fora dele.
+
+Regras:
+- Mesma câmera e mesmo enquadramento de `base-poco.png` (isométrica verdadeira, sem perspectiva; as arestas do chão sobem a 30° para a esquerda e para a direita; as varas do andaime em pé, na vertical).
+- Exatamente o mesmo estilo da cena: o mesmo traço escuro de espessura parecida, as mesmas cores chapadas com poucos tons, luz vindo de cima e da esquerda.
+- Fundo transparente de verdade (canal alfa). O tracejado NÃO aparece no resultado. Sem chão de terra, sem grama, sem sombra projetada no chão, sem cenário, sem personagem, sem ferramentas soltas, sem texto, sem letras, sem números, sem placa, sem moldura.
+- Tudo inteiro dentro da imagem, sem cortar nada, com folga transparente em toda a volta.
+- Arte original; não imite nenhum jogo existente.
+- Gere a imagem UMA vez só. Cor que sobra em pixels totalmente transparentes (um "halo" que só aparece para quem ignora o canal alfa) não é defeito: não refaça nem retoque por causa disso.
+
+No fim, liste os arquivos que salvou e o tamanho em pixels.

diff --git a/arte/jogo/pedidos/65-trouxa-no-chao.md b/arte/jogo/pedidos/65-trouxa-no-chao.md
@@ -1,0 +1,24 @@
+Use a sua ferramenta própria de geração de imagens. Não escreva código para desenhar.
+
+A imagem anexa (`referencias/var-2-contorno.png`) é a cena de um jogo de fazenda original, em desenho com contorno escuro e cores chapadas. Ela dá o ESTILO e a CÂMERA. Preciso de UMA peça desse jogo desenhada de novo, SOZINHA, para entrar no jogo como figura 2D. A peça tem de parecer recortada dessa cena.
+
+A segunda imagem anexa (`referencias/comeco-personagem-trouxa.png`) é a FOLHA DE MODELO da personagem com a TROUXA pendurada no pau: a trouxa que eu quero é ESSA, igual. A terceira (`referencias/comeco-fazenda.png`) é a imagem já aprovada do começo do jogo: a trouxa aparece largada no chão, ao lado do baú, perto da porta da casa.
+
+Gere uma imagem quadrada e salve na pasta atual como `trouxa-no-chao.png`:
+
+A TROUXA largada no chão, sozinha:
+- o mesmo pano da folha de modelo: azul vivo, com florzinhas brancas de miolo amarelo espalhadas;
+- as quatro pontas do pano amarradas em cima num NÓ, com as duas pontinhas do nó em pé como duas orelhinhas;
+- pousada no chão, cheia e redonda, um pouco ACHATADA embaixo pelo próprio peso, MAIS LARGA QUE ALTA (a largura uma vez e meia a altura, contando o nó);
+- SEM o pau, sem a personagem, sem baú: só a trouxa.
+Vista pela câmera da cena, um pouco de cima, com a luz vindo de cima e da esquerda.
+
+Regras:
+- Mesma câmera da cena: isométrica verdadeira (girada 45°, olhando de cima a cerca de 35°), sem perspectiva.
+- Exatamente o mesmo estilo da cena e da folha de modelo: o mesmo traço escuro de espessura parecida, as mesmas cores chapadas com poucos tons, um brilho simples.
+- Fundo transparente de verdade (canal alfa). Sem chão, sem grama, sem terra, sem sombra projetada no chão, sem cenário, sem texto, sem letras, sem números, sem moldura.
+- O objeto inteiro dentro da imagem, centrado, ocupando cerca de 60% da largura, com folga transparente em toda a volta. Imagem quadrada.
+- Arte original; não imite nenhum jogo existente.
+- Gere a imagem UMA vez só. Cor que sobra em pixels totalmente transparentes (um "halo" que só aparece para quem ignora o canal alfa) não é defeito: não refaça nem retoque por causa disso.
+
+No fim, liste os arquivos que salvou.
